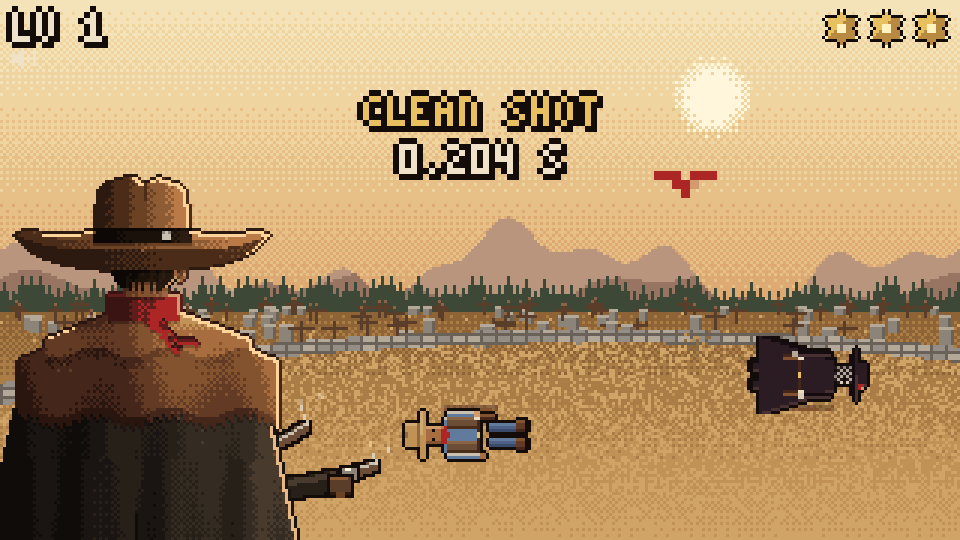
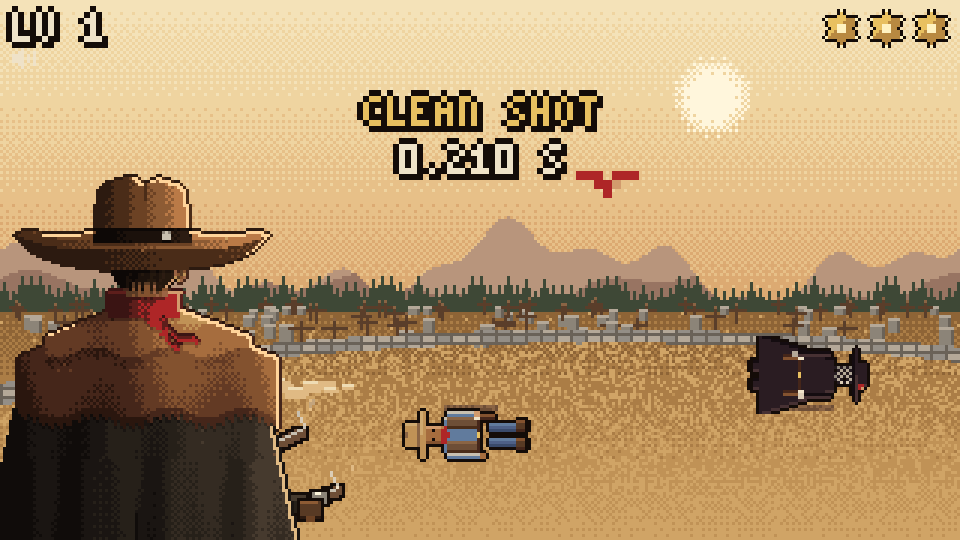
Zero-Day: posa C per le braccia, pistola destra piu nascosta, punta sinistra visibile anche in verticale
Claude-Session: https://claude.ai/code/session_01NXRzM4uHse2DNEAmVt6o3x

diff --git a/public/zeroday/index.html b/public/zeroday/index.html
@@ -286,11 +286,11 @@ canvas:focus { outline: none; }
   // arms and guns live under the cape: they only come out when you shoot (sprite coordinates of the shoulders)
   // the arms come out from under the cape at belt height. From behind the right forearm and fist show past the hip,
   // of the left gun only the tip shows. ARM_POSES[side] = { from: hidden start, hand: final grip, len: barrel }
-  const ARMS = (new URLSearchParams(location.search).get("arms") || "B").toUpperCase();
+  const ARMS = (new URLSearchParams(location.search).get("arms") || "C").toUpperCase();
   const ARM_POSES = {
     A: [{ from: [80, 102], hand: [92, 100], len: 24 }, { from: [96, 108], hand: [122, 98], len: 11 }],
     B: [{ from: [82, 106], hand: [94, 103], len: 24 }, { from: [92, 114], hand: [126, 108], len: 12 }],
-    C: [{ from: [82, 110], hand: [94, 108], len: 23 }, { from: [94, 120], hand: [124, 120], len: 12 }],
+    C: [{ from: [82, 110], hand: [94, 108], len: 23 }, { from: [92, 120], hand: [116, 120], len: 10 }],
   }[ARMS] || null;
 
   // =====================================================================
@@ -523,12 +523,16 @@ canvas:focus { outline: none; }
   // the two revolvers: from the shoulder out towards each rival (where they stood when the duel began)
   const gunGeo = (side) => {
     const P = ARM_POSES[side], out = Math.min(1, (t - guns.t) / 3);
-    const sx = L.pX + P.from[0], sy = L.pY + P.from[1];
-    const hx = sx + (L.pX + P.hand[0] - sx) * out, hy = sy + (L.pY + P.hand[1] - sy) * out;
+    // on a tall phone the hip sits on the bottom edge: lift the arms just enough to keep the fist on screen
+    const lift = Math.min(0, VH - 12 - (L.pY + ARM_POSES[1].hand[1]));
+    const sx = L.pX + P.from[0], sy = L.pY + P.from[1] + lift;
+    const hx = sx + (L.pX + P.hand[0] - sx) * out, hy = sy + (L.pY + P.hand[1] + lift - sy) * out;
     let ux, uy;
     if (P.dir) { ux = P.dir[0]; uy = P.dir[1]; }
     else { const tx = side ? L.rx : L.lx, ty = L.oppY + 22, d = Math.hypot(tx - hx, ty - hy) || 1; ux = (tx - hx) / d; uy = (ty - hy) / d; }
-    return { sx, sy, hx, hy, ux, uy, tipX: hx + ux * P.len, tipY: hy - 1 + uy * P.len };
+    // in portrait the rivals sit higher, so the hidden left barrel needs a little more length to peek out
+    const len = P.len + (side === 0 && !L.land ? 16 : 0);
+    return { sx, sy, hx, hy, ux, uy, tipX: hx + ux * len, tipY: hy - 1 + uy * len };
   };
   const shoot = (key) => {
     const side = key === "Q" ? 0 : 1;
